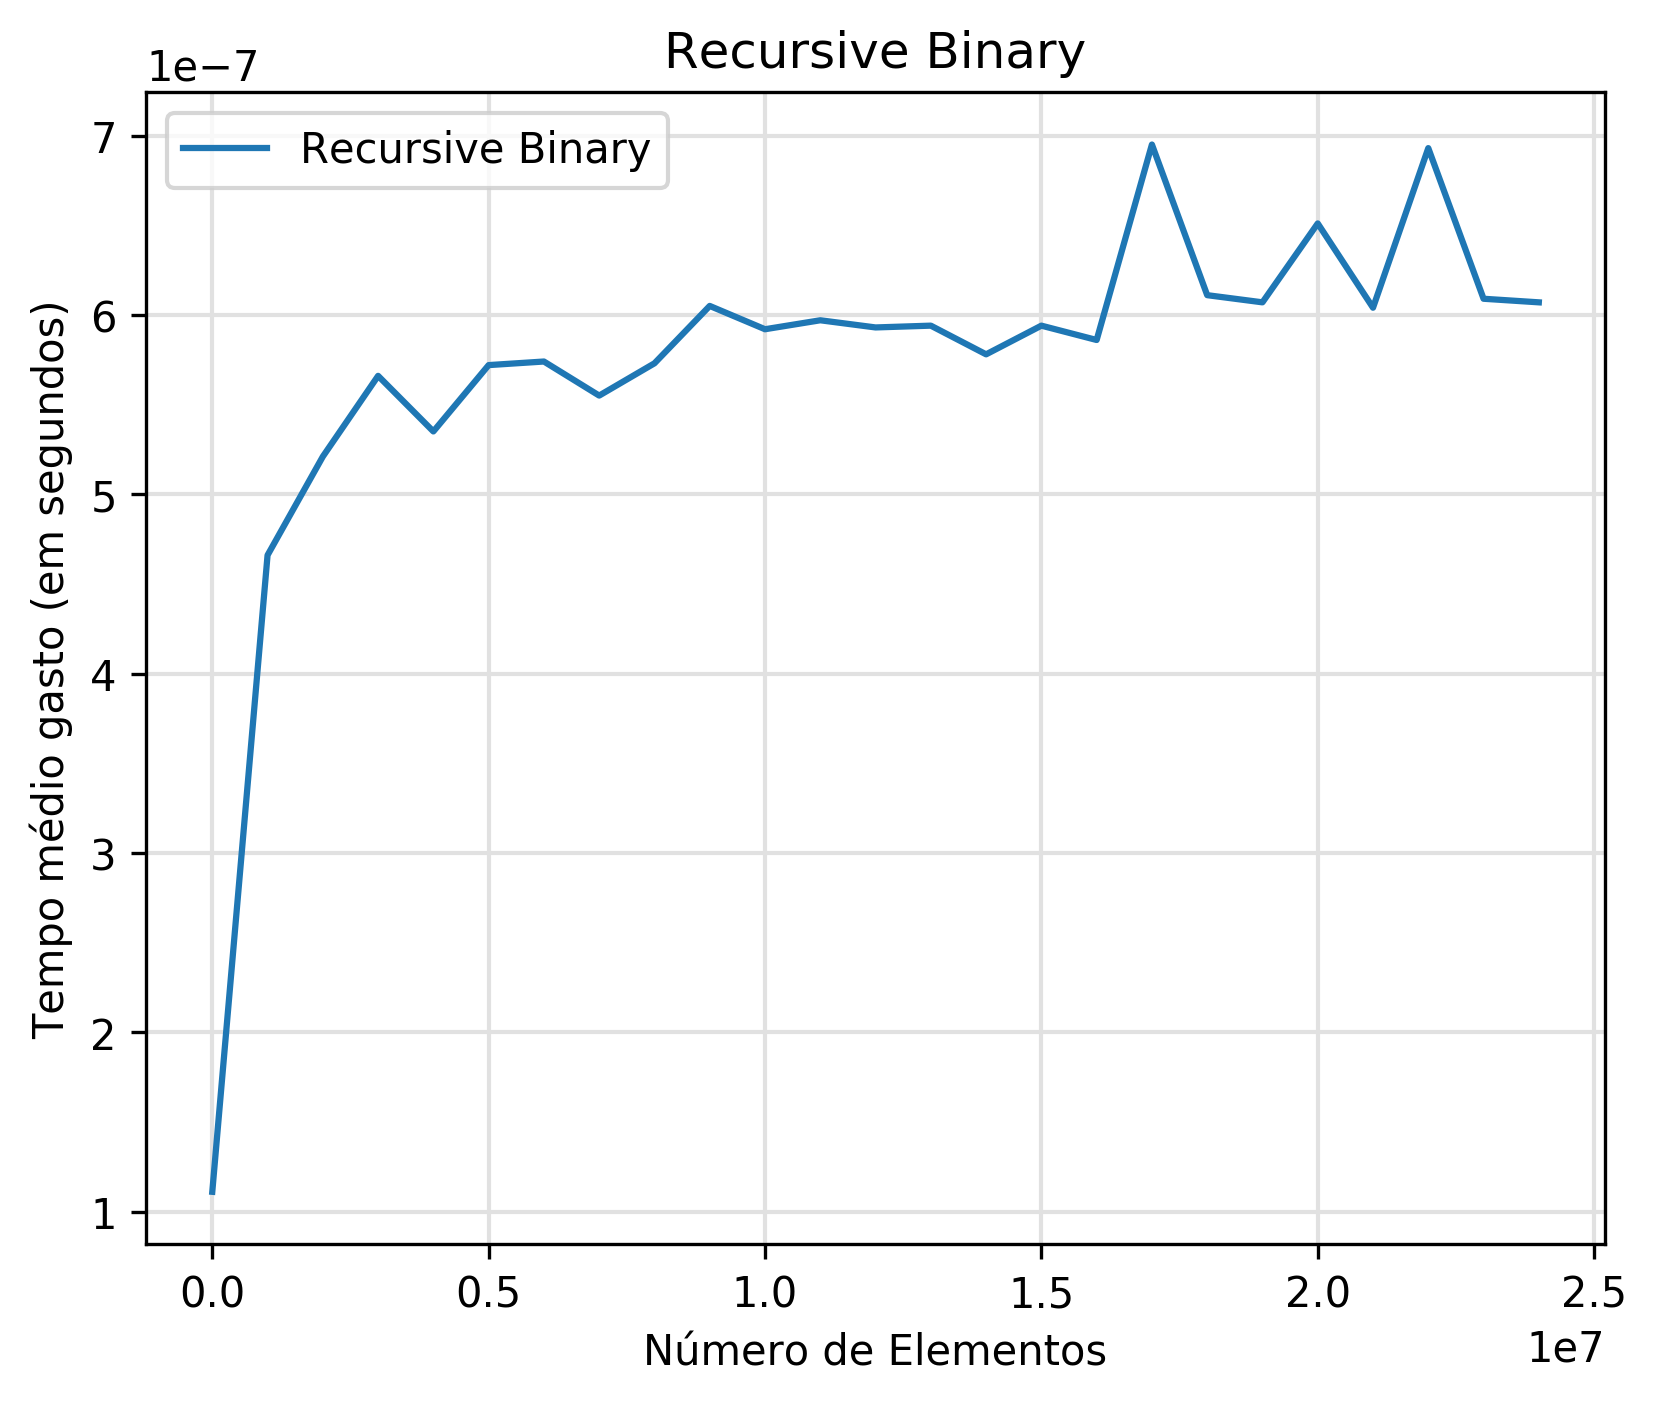
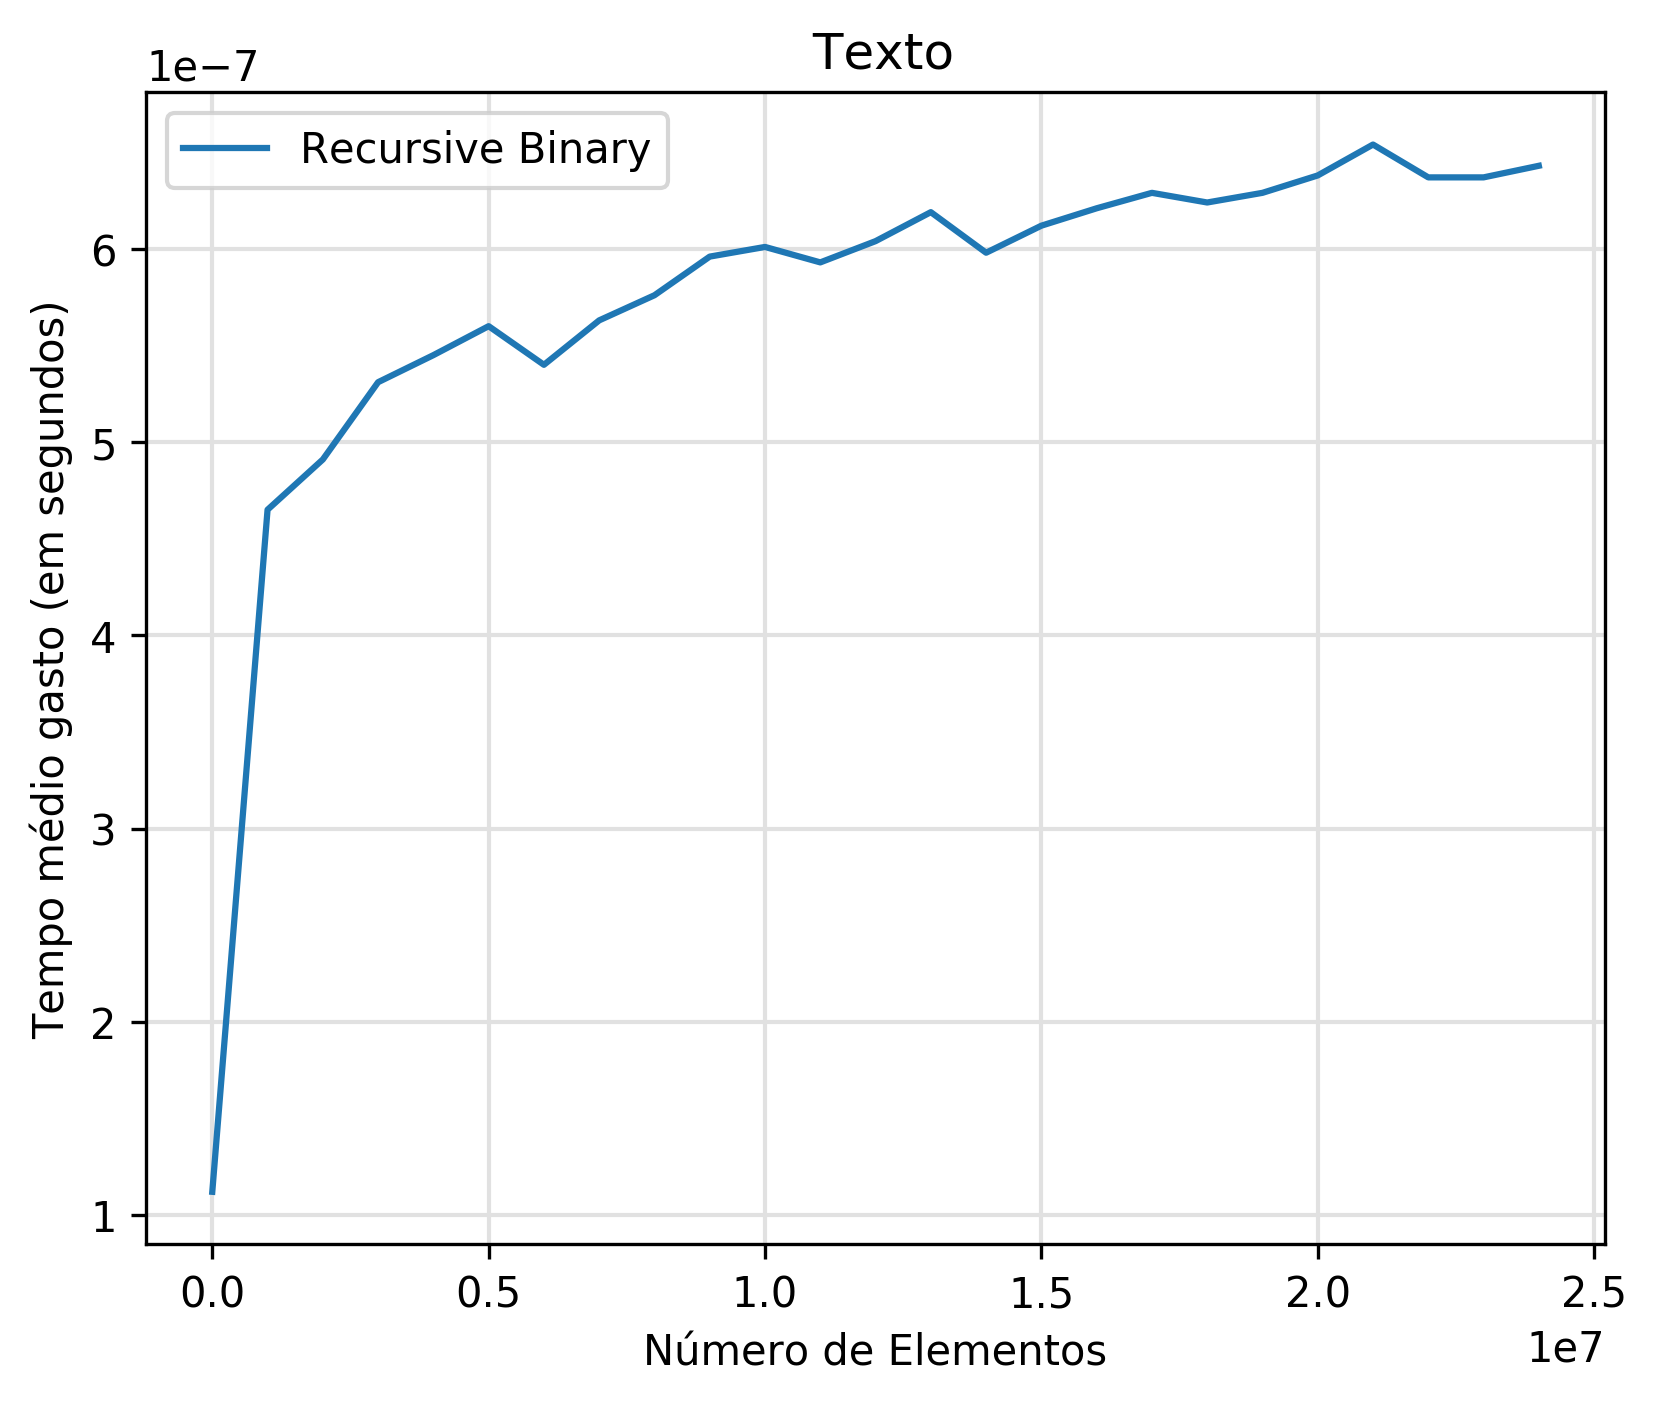
Updates

diff --git a/src/jsearch.cpp b/src/jsearch.cpp
@@ -6,8 +6,9 @@ long int *jsearch( long int *first, long int *last, long int value, long int *co
 	long int n = last - first;
 	long int m = sqrt(n);
 	long int *last_backup = last;
+	long int k;
 	
-	for( auto k(1); (k * m) < n; k++ )
+	for( k = 1; (k * m) < n; k++ )
 	{
 		*counter += 1;
 		if( value == *(first + k * m) )
@@ -23,5 +24,9 @@ long int *jsearch( long int *first, long int *last, long int value, long int *co
 				return last;
 		}
 	}
-	return last_backup;
+	auto result = ssearch( (first + (k - 1) * m) + 1, last_backup, value, counter);
+	if( result != (first + k * m) )
+		return result;
+	else 
+		return last_backup;
 }

diff --git a/src/main.cpp b/src/main.cpp
@@ -47,6 +47,7 @@ int main(int argc, char **argv) {
 		number_of_arrays = atol(argv[4]);
 		std::cout << status << "number_of_arrays = " << number_of_arrays << min;
 	}
+	long int SEARCH_FOR = 2 * array_size + pow(10, array_increment);
 
 	bp();
 	std::cout << status << "Running..." << min;

diff --git a/src/plot.py b/src/plot.py
@@ -152,7 +152,7 @@ for file in filenames:
 if(len(plot_title) > 1):
     plt.title(makeTitle(plot_title))
 else:
-    plt.title(files_worked[0])
+    plt.title(makeTitle(plot_title))
 
 plt.subplots_adjust(left=0.17, bottom=0.13, right=0.93, top=0.93)
 

diff --git a/include/util.h b/include/util.h
@@ -9,7 +9,8 @@
 #include <iterator>
 
 // Default values
-#define SEARCH_FOR -2
+// #define SEARCH_FOR 1000000000000000000000000000000
+// long int SEARCH_FOR = 100000000000;
 
 // A simple array print function
 void pArray( long int *, long int * );
